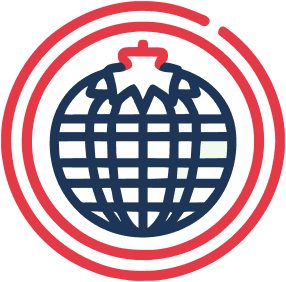
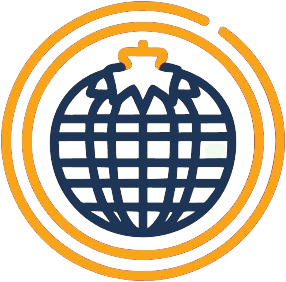
Cambiado de iconos

diff --git a/src/Components/MainMenu/MainMenu.jsx b/src/Components/MainMenu/MainMenu.jsx
@@ -3,7 +3,7 @@ import { Link, useNavigate } from 'react-router-dom';
 import '../Styles/menu_style.scss';
 import CustomButton from './ButtonExit';
 import main_logo from '../../assets/freshguard-logo.jpeg';
-import camara from '../../assets/MainMenu/camara.png';
+import upload from '../../assets/MainMenu/cloud-upload-alt.png';
 import info from '../../assets/MainMenu/info.png';
 import doc from '../../assets/MainMenu/doc.png';
 import Swal from 'sweetalert2';
@@ -70,12 +70,14 @@ const MainMenu = ({ correoUsuario }) => {
                 if (statusCode === 200 || statusCode === 201) {
                     setResult(data);
                     navigate('/Resultados', { state: { imageBase64, result: data } });
+                    ShowLoaingMessege(false)
                     Swal.fire({
                         icon: 'success',
                         title: 'Imagen cargada correctamente',
                         showConfirmButton: false,
                     });
                 } else {
+                    ShowLoaingMessege(false)
                     Swal.fire({
                         icon: 'error',
                         title: 'Oops...',
@@ -83,6 +85,7 @@ const MainMenu = ({ correoUsuario }) => {
                     });
                 }
             } catch (error) {
+                ShowLoaingMessege(false)
                 Swal.fire({
                     icon: 'error',
                     title: 'Oops...',
@@ -90,7 +93,6 @@ const MainMenu = ({ correoUsuario }) => {
                 });
             }
         }
-        ShowLoaingMessege(false)
     };
     
     useEffect(() => {
@@ -123,7 +125,7 @@ const MainMenu = ({ correoUsuario }) => {
                             onChange={handleFileChange}
                         />
                         <button onClick={handleButtonClick}>
-                            <img src={camara} alt="Cargar foto" className='submit' />
+                            <img src={upload} alt="Cargar foto" className='submit' />
                         </button>
                         <p>Cargar foto</p>
                     </div>

diff --git a/src/Components/Info_us/Politicas.jsx b/src/Components/Info_us/Politicas.jsx
@@ -26,7 +26,11 @@ export const Politicas = () => {
                         <li>Cumplimiento Normativo:</li><p>Nos comprometemos a cumplir con todas las leyes y regulaciones pertinentes, especialmente aquellas relacionadas con la clasificación de enfermedades y estados de los productos alimenticios según la normativa mexicana.</p>
                         <li>Modificaciones:</li><p>Nos reservamos el derecho de modificar estos términos y condiciones en cualquier momento. Se notificará a los usuarios sobre cualquier cambio realizado.</p>
                     </ol>
-
+                    <h6>Créditos a dependencias externas: </h6>
+                    <ol>
+                        <li><a href="https://www.flaticon.es/iconos-gratis/carga-en-la-nube-alt" title="carga-en-la-nube-alt iconos">Carga-en-la-nube-alt iconos creados por iconading - Flaticon</a></li>
+                        <li><a href="https://www.flaticon.es/iconos-gratis/documentos" title="documentos iconos">Documentos iconos creados por Freepik - Flaticon</a></li>
+                    </ol>
                 </div>
                 <div className="submit-container">
                     <div className="politics">

diff --git a/src/Components/Styles/menu_style.scss b/src/Components/Styles/menu_style.scss
@@ -81,8 +81,8 @@ body{
     align-items: center;
 }
 .photo-load .submit {
-    max-width: 60%; /* La imagen no excede el 100% del ancho del contenedor */
-    max-height: 70%; /* La imagen no excede el 100% de la altura del contenedor */
+    max-width: 35%; /* La imagen no excede el 100% del ancho del contenedor */
+    max-height: 50%; /* La imagen no excede el 100% de la altura del contenedor */
     width: auto; /* Ajusta automáticamente el ancho */
     height: auto; /* Ajusta automáticamente la altura */
 }
@@ -166,6 +166,7 @@ button{
         max-width: 100%; /* El botón ocupará todo el ancho disponible */
         height: 40px; /* Reducir la altura */
     }
+    
 }
 
 @media (min-width: 481px) and (max-width: 768px) {
